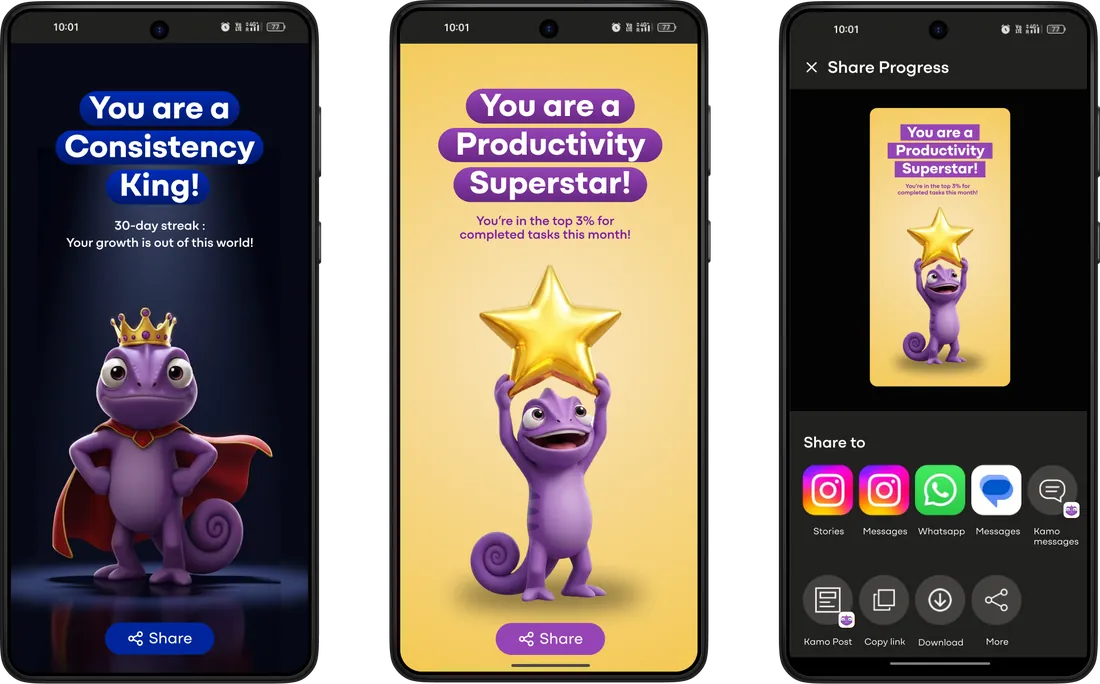
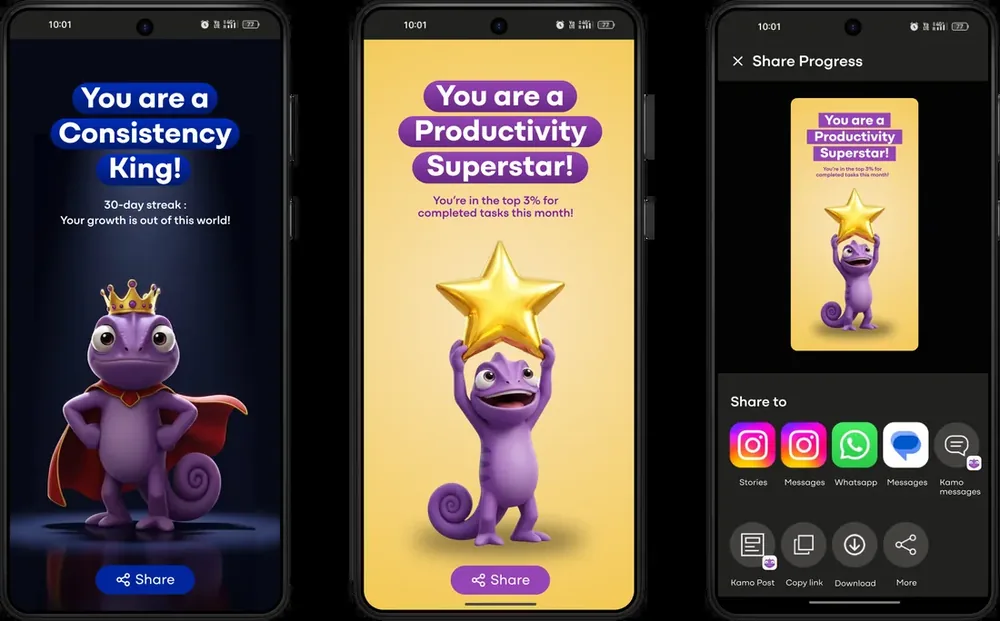
fix: optimize hover thumbnail resolutions, switch design research page to off-white, update methods, reorder ethical consideration, and refine raw files link styling

diff --git a/design-research.html b/design-research.html
@@ -20,38 +20,14 @@
       overflow-x: clip !important;
       overflow-y: visible !important;
       height: auto !important;
-      background-color: #0b0b0d;
-      color: #FFFCDE;
     }
     .case-study-page, .case-study-page-wrapper {
       overflow: visible !important;
       height: auto !important;
     }
-    .design-research-page .case-study-hero .case-study-title {
-      color: #FFFCDE;
-    }
-    .design-research-page .case-study-hero .case-study-lead {
-      color: rgba(255, 252, 222, 0.85);
-    }
-    .design-research-page .spec-table-card {
-      background: #141419;
-      border: 1px solid rgba(255, 252, 222, 0.12);
-    }
-    .design-research-page .spec-table td.spec-key {
-      color: rgba(255, 252, 222, 0.55);
-    }
-    .design-research-page .spec-table td.spec-value {
-      color: #FFFCDE;
-    }
-    .design-research-page .case-study-sidebar .sidebar-nav-link {
-      color: rgba(255, 252, 222, 0.65);
-    }
     .design-research-page .case-study-sidebar .sidebar-nav-link:hover,
     .design-research-page .case-study-sidebar .sidebar-nav-link.active {
       color: #1DA1FF !important;
-    }
-    .design-research-page .slide-section {
-      background: #000000;
     }
   </style>
 </head>
@@ -101,6 +77,9 @@
               <a href="#methodology" class="sidebar-nav-link" data-topic="methodology">Methodology</a>
             </li>
             <li class="sidebar-nav-item">
+              <a href="#ethical-consideration" class="sidebar-nav-link" data-topic="ethical-consideration">Ethical Consideration</a>
+            </li>
+            <li class="sidebar-nav-item">
               <a href="#deductive-coding" class="sidebar-nav-link" data-topic="deductive-coding">Deductive Coding</a>
             </li>
             <li class="sidebar-nav-item">
@@ -108,9 +87,6 @@
             </li>
             <li class="sidebar-nav-item">
               <a href="#implications" class="sidebar-nav-link" data-topic="implications">Implications</a>
-            </li>
-            <li class="sidebar-nav-item">
-              <a href="#ethical-consideration" class="sidebar-nav-link" data-topic="ethical-consideration">Ethical Consideration</a>
             </li>
           </ul>
         </nav>
@@ -141,12 +117,8 @@
                   <td class="spec-value">Video Game Design / Narrative Systems</td>
                 </tr>
                 <tr>
-                  <td class="spec-key">Year</td>
-                  <td class="spec-value">2026</td>
-                </tr>
-                <tr>
                   <td class="spec-key">Methods</td>
-                  <td class="spec-value">Deductive Coding, Literature Review, Qualitative Semiotic Analysis, World-Building Deconstruction</td>
+                  <td class="spec-value">Literature Review, Qualitative interviews, Deductive Coding</td>
                 </tr>
                 <tr>
                   <td class="spec-key">Outcome</td>
@@ -209,24 +181,24 @@
             <img src="Design Research/methodology5.webp" alt="Design Research - Methodology" class="topic-image" loading="lazy">
           </div>
 
-          <!-- Slide 06: Deductive Coding -->
+          <!-- Slide 06: Ethical Consideration (Positioned directly after Methodology) -->
+          <div class="slide-section" id="ethical-consideration" data-topic="ethical-consideration">
+            <img src="Design Research/ethical%20consideration.webp" alt="Design Research - Ethical Consideration" class="topic-image" loading="lazy">
+          </div>
+
+          <!-- Slide 07: Deductive Coding -->
           <div class="slide-section" id="deductive-coding" data-topic="deductive-coding">
             <img src="Design Research/deductive%20coding6.webp" alt="Design Research - Deductive Coding" class="topic-image" loading="lazy">
           </div>
 
-          <!-- Slide 07: Findings -->
+          <!-- Slide 08: Findings -->
           <div class="slide-section" id="findings" data-topic="findings">
             <img src="Design Research/findings7.webp" alt="Design Research - Findings" class="topic-image" loading="lazy">
           </div>
 
-          <!-- Slide 08: Implications -->
+          <!-- Slide 09: Implications -->
           <div class="slide-section" id="implications" data-topic="implications">
             <img src="Design Research/Implications8.webp" alt="Design Research - Implications" class="topic-image" loading="lazy">
-          </div>
-
-          <!-- Slide 09: Ethical Consideration -->
-          <div class="slide-section" id="ethical-consideration" data-topic="ethical-consideration">
-            <img src="Design Research/ethical%20consideration.webp" alt="Design Research - Ethical Consideration" class="topic-image" loading="lazy">
           </div>
         </div>
       </div>

diff --git a/style.css b/style.css
@@ -1239,8 +1239,7 @@ body {
   opacity: 0;
   pointer-events: none;
   filter: none;
-  image-rendering: -webkit-optimize-contrast;
-  image-rendering: crisp-edges;
+  image-rendering: auto;
 }
 
 /* Instant, continuous cycling across all 6 slides with zero transition and zero gap */
@@ -3249,7 +3248,7 @@ body {
   background-color: #0d8de6 !important;
 }
 
-/* Raw Files Link Button on Slide 2 */
+/* Raw Files Link on Slide 2 (Text without blue pill, shifted left by 200px) */
 .raw-files-stage {
   position: relative;
   width: 100%;
@@ -3259,7 +3258,7 @@ body {
 
 .raw-files-btn-wrap {
   position: absolute;
-  right: 5%;
+  right: calc(5% + 200px);
   top: 50%;
   transform: translateY(-50%);
   z-index: 10;
@@ -3268,37 +3267,47 @@ body {
 .raw-files-action-btn {
   display: inline-flex;
   align-items: center;
-  gap: 9px;
-  padding: 12px 24px;
-  background-color: #1DA1FF;
+  gap: 8px;
+  padding: 0;
+  background: transparent !important;
   color: #FFFFFF !important;
   font-family: 'Plus Jakarta Sans', sans-serif;
-  font-size: clamp(12px, 1vw, 15px);
+  font-size: clamp(13px, 1.05vw, 16px);
   font-weight: 700;
-  letter-spacing: 0.05em;
+  letter-spacing: 0.08em;
   text-transform: uppercase;
-  text-decoration: none;
-  border-radius: 9999px;
-  border: 1px solid rgba(255, 255, 255, 0.25);
-  box-shadow: 0 4px 24px rgba(29, 161, 255, 0.45);
-  transition: all 0.25s cubic-bezier(0.16, 1, 0.3, 1);
+  text-decoration: underline;
+  text-underline-offset: 6px;
+  text-decoration-thickness: 1.5px;
+  border-radius: 0;
+  border: none !important;
+  box-shadow: none !important;
+  transition: color 0.2s ease, transform 0.2s ease;
   white-space: nowrap;
 }
 
 .raw-files-action-btn:hover {
-  background-color: #0088ea;
-  color: #FFFFFF !important;
-  transform: translateY(-2px);
-  box-shadow: 0 8px 32px rgba(29, 161, 255, 0.65);
+  background: transparent !important;
+  color: #1DA1FF !important;
+  transform: translateX(3px);
+  box-shadow: none !important;
 }
 
 .raw-files-action-btn svg {
-  transition: transform 0.2s ease;
+  transition: transform 0.2s ease, stroke 0.2s ease;
   flex-shrink: 0;
+  stroke: #FFFFFF;
 }
 
 .raw-files-action-btn:hover svg {
   transform: translate(2px, -2px);
+  stroke: #1DA1FF;
+}
+
+@media (max-width: 860px) {
+  .raw-files-btn-wrap {
+    right: 5%;
+  }
 }
 
 /* Responsive Open Sidebar */
